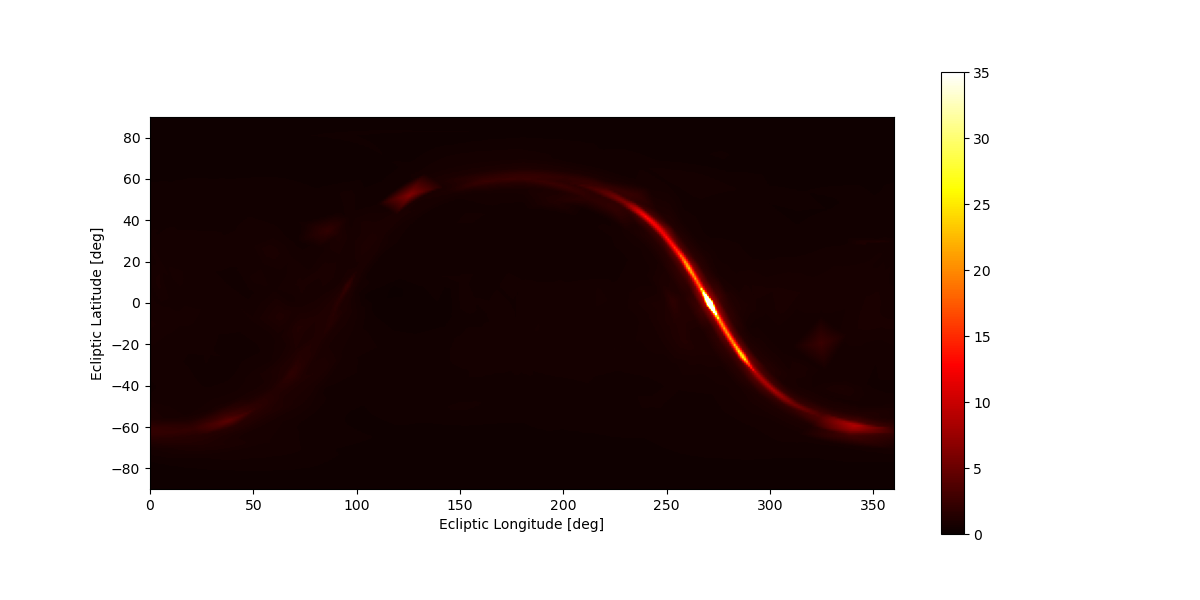
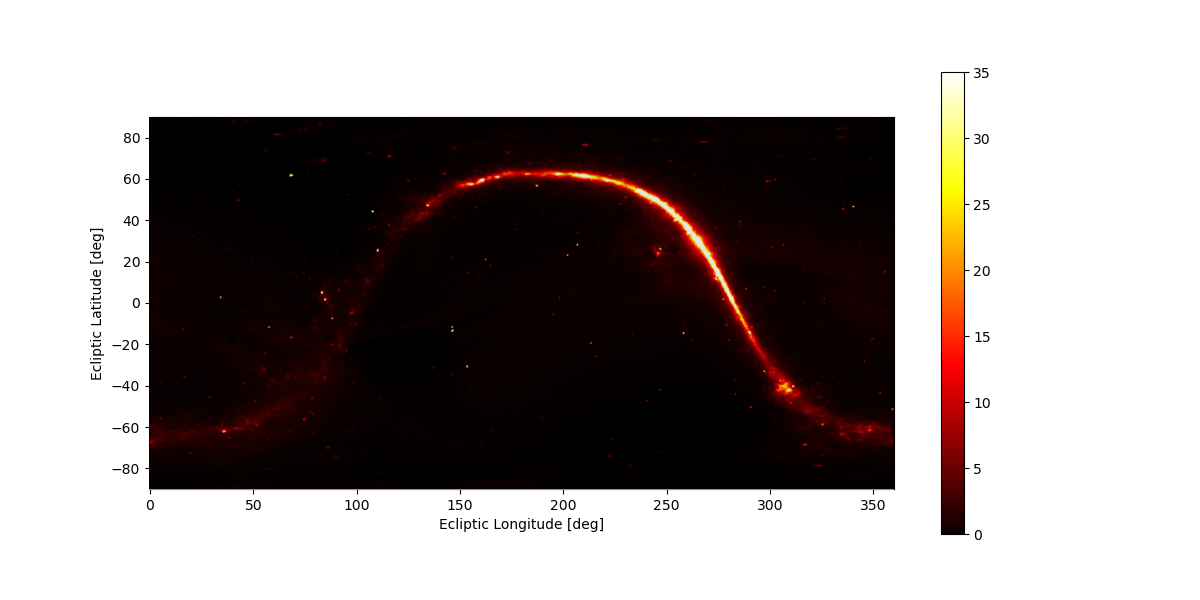
Work on ch4

diff --git a/4-experimental-methodology.tex b/4-experimental-methodology.tex
@@ -1,6 +1,9 @@
 \chapter{Experimental Methodology}
+After review of the background of near-Earth asteroid surveys and the existing body of literature for modelling surveys, this chapter will discuss the developed simulation in more detail. Firstly, in \autoref{sec::methdologysimulation}, the architecture of the simulation is discussed on a top-level. Then, in \autoref{sec:methdologyimplementation}, the implementation of the components of the simulation based on the literature in \autoref{ch:surveymodelling} is explained. Then, discourse will be given to the methods of optimization utlized in the research in \autoref{sec:methodologyoptimization}. Lastly, in \autoref{sec:methodologyprocess}, the process of using the simulation and optimization methods to obtain the results and conclusions presented in the next chapter is explained as well as the reasoning to support the optimization results. For reference, the interested reader can find the complete code as-is \href{https://github.com/ArjanVermeulen97/thesis/tree/main/code}{on Github.}
 
 \section{Simulation Overview}
+\label{sec:methodologysimulation}
+First, before discussing the specifics of implementation, a general overview of the simulation is given. The objective of the simulation is to accurately predict the performance of a NEA survey by a given system of spacecraft, on a given population. Any optimization or validation is not considered a part of the simulation, but rather a system utilizing it. This will be further explained in \autoref{sec:methdologyprocess}.
 
 \begin{figure}[htbp]
  \centering
@@ -14,7 +17,83 @@ The architecture of the simulation is shown in \autoref{fig:simulation_overview}
 The simulation consists of a nested loop. Firstly, at the start of each timestep (the time between the timesteps is determined by the survey cadence), the positions of all asteroids and spacecraft are determined by propagation of their orbital elements. Then, in the inside loop, each spacecraft is checked against each asteroid to see if it can detect said asteroid. This is done through calculation of the signal-to-noise ratio (SNR). Lastly, as it is known which asteroids got succesfully detected by which spacecraft, it can be determined if asteroids have been identified. Then, at the end of the simulation, the result is a list of the asteroid population in addition to whether they have been detected, and if so, when. Of course, this data can be further processed.
 
 \section{Implementation}
+\label{sec:methodologyimplementation}
+In this section, the implementation of the simulation algortihm is discussed. The simulation was written fully in Python 3.8, for reasons of easy testing and iteration, availability of packages for data handling and analysis, and familiarity of the author. The simulations were ran on several computers equipped with consumer-grade 6-core CPU's. \\
+
+With regards to specific packages, data handling and computation was performed using \href{https://pandas.pydata.org}{Pandas} and \href{https://numpy.org}{NumPy}. Parallelization was performed using \href{https://dask.org}{Dask}. Critical paths of these packages are written in C/C++/Cython, vastly improving the performance of the simulation. Optimization was implemented through \href{https://pypi.org/project/scikit-optimize}{Scikit-optimize} and \href{https://scikit-learn.org/stable/index.html}{Scikit-learn}. Where necessary for the purpose of analysis, data visualisation was performed using \href{https://seaborn.pydata.org}{Seaborn}. Several other packages were used, but their exact functionality and specification is not relevant for the implementation and operation of the simulation.
+
+\subsection{Population of Asteroids, Spacecraft, and Orbital Mechanics}
+The population of asteroids was implemented based on the work of \cite{GranvikPopulation}. The authors \href{http://www.iki.fi/mgranvik/data/Granvik+\_2018\_Icarus}{provide an already generated population model} of 802,000 NEA's of absolute magnitude $17 < H < 25$. This saves having to implement and validate their modelling separately. For the simulation, a random sample of asteroids is drawn for each simulation run. It was found that a number of 1000 asteroids provided adequate accuracy while reducing computational load. For validation runs, 2500 asteroids were sampled instead to ensure a higher level of accuracy. The model includes for each NEA a unique identifier, a set of six keplerian orbital elements, the absolute magnitude, and the albedo. The data is implemented as a Pandas dataframe. Similarly, the spacecraft are also implemented as a Pandas dataframe, although their orbital elements and payload are given as input arguments to the simulation. \\
+
+Orbits of asteroids and spacecraft were modelled using Keplerian orbits. As no complex mission gemetries or three-body interactions such as impacts are being studied, it was assumed that this would provide an accurate representation. The transcendental Kepler equation was solved numerically using the iterative method proposed by \cite{KeplerEquation}. Resulting orbits and transformations were verified manually. It is noted that calculation of the position of asteroids and spacecraft, especially solving of the Kepler equation, presents one of the largest contributors to the simulation's runtime. For future work, an alternative implementation is recommended.
+
+\subsection{Background Signal}
+Implementation of the background signal as described in \autoref{sec:modelling_background} was carried out as follows: Data for visual light is directly provided in the work of \cite{LightOfTheNightSky} in tabulated format for a longitude range of $[0^\circ, 360^\circ]$, in intervals of $10^\circ$. Latitude coordinates are provided in the interval $[-90^\circ, 90^\circ]$, in intervals of $10^\circ$. Additionally, latitude values of $-15^\circ, -5^\circ, -2^\circ, 2^\circ, 5^\circ, 15^\circ$ are provided for additional detail around the brightest areas (such as the galactic core or the Sun). Background signal originating from the Sun uses eclitic coordinates, signal from the background stars use galactic coordinates. After manual verification, the tables were saved. \\
+
+The thermal infrared signal as described in \cite{IRDust} was implemented in two steps. Firstly, the thermal infrared background signal from outside the solar system was loaded, and the model for interplanetary dust and sunlight for the Sun-dependent portion of the background signal was implemented. For the latter, the required line-of-sight integration was performed numerically using a Riemann sum with a step size of $0.1~\mathrm{AU}$, up to a distance of $5.2~\mathrm{AU}$ from the Sun. Results were verified manually by inspection, and comparison of locations of well-known objects in the Milky Way to their locations in the background star signal. The latter step was taken to also ensure that the transformation from ecliptic to galactic coordinates was performed correctly. After verification, the resulting data was tabulated for the same longitude and latitude combinations as the visual light background signal. This was done to ensure universal operation of the code, reducing errors, and to avoid the computational load associated with processing the highly detailed \textit{COBE} data and performing the abovementioned numerical integration. \\
+
+After tabulation, the background signal data can be held in memory during operation. Where necessary, it can be corrected to account for the spacecraft's distance from the Sun using \autoref{eq:sunscale}. When necessary, the value of the signal is determined from interpolation by means of Scikit's linear N-dimensional interpolator. \autoref{fig:combinedvisbackground} and \autoref{fig:combinedtirbackground} show the resulting background signal in the visual light and thermal infrared, respectively. It can be seen that some loss of detail in the thermal infrared is incurred due to the tabulation, however the effect is minor.
+
+\begin{figure}[htbp]
+ \centering
+ \includegraphics[width=1.0\textwidth]{img/background_vis_combined.png}
+ \caption{Background signal in the visual spectrum, in ecliptic coordinates, as seen from a spacecraft located at (-1, 0, 0) AU. Units are $S10_\odot$ or solar-type stars of 10th magnitude per square degree. $1~S10_\odot = 9.00~\mathrm{W}~\mathrm{m}^{-2}~\mathrm{Sr}^{-1}$. The scale is clipped at $1000 ~S10_\odot$ for clarity.}
+ \label{fig:combinedvisbackground}
+\end{figure}
+
+\begin{figure}[htbp]
+ \centering
+ \includegraphics[width=1.0\textwidth]{img/background_tir_combined.png}
+ \caption{Background signal in thermal infrared, in ecliptic coordinates, as seen from a spacecraft located at (-1, 0, 0) AU. Units are Megajansky per steradian, $1 ~\mathrm{MJy}~{sr}^{-1} = 10^{-21} ~\mathrm{W}~\mathrm{m}^{-2}~\mathrm{Hz}^{-1}~\mathrm{Sr}^{-1}$, and the scale is clipped at $35 ~\mathrm{MJy}~{sr}^{-1}$ for clarity.}
+ \label{fig:combinedtirbackground}
+\end{figure}
+
+\subsection{Target Signal}
+Implementation of target signal is a straightforward process. For the visual spectrum, the formulae listed in \autoref{sec:modelling_target} could be directly copied. The thermal infrared signal involves a triple integration, and is slightly more complex. As this process has to be performed $n_{asteroids} * n_{spacecraft} * T_{simulation} / \Delta t$ times per simulation, performance has to be taken into account when implementing the integrations. \\
+
+Firstly, the integration of Planck's law over the bandpass. No closed-form solution exists for the definite integral of Planck's law. As Planck's law is relatively smooth, the decision was made to approximate the integral by the average of the start and end of the bandpass. In practice this means:
+\begin{equation}
+ \int _{6 \mu\mathrm{m}}^{10 \mu\mathrm{m}} B(\lambda, T) d\lambda \approx \frac{1}{2}\left[B(6 \mu\mathrm{m}, T) + B(10 \mu\mathrm{m}, T)\right] \Delta \lambda
+\end{equation}
+This essentially approximates Planck's law as a linear function in the domain. It is assumed that this is accurate for the range and temperatures considered. This simplification has to be made, as this integration has to be carried out for every part of the numerical integration over the visible hemisphere of the asteroid, and is thus performed even more often per simulation (in fact, it is the most-called function in the simulation). The integration over the visual hemisphere of the asteroid is performed by first assuming the asteroid to be a sphere. From geometry this integral is well known:
+\begin{equation}
+ F(x) = R^2\int_{-\pi/2}^{\pi/2}\int_{-\pi/2}^{\pi/2} f(x) \cos \theta \cos \phi d \theta d \phi
+\end{equation}
+This integration was implemented through a Riemann sum as well, using the midpoint rule and an interval of $\pi/4$ for both directions, resulting in a total of 16 evaluations. It was found that the error with respect to a very precise integration was less than 1\%. Examples of the implementation can be seen in FIGUREEEE
+
+
+\subsection{Search Strategy and Cadence}
+Implementation of the search strategy and cadence proved to be the most problematic aspect in the implementation process. As mentioned in \autoref{sec:modelling_cadence}, very little literature exists on the topic, and no methods have been developed to obtain an optimal search strategy utilizing multiple spacecraft. Several options were considered to model the strategy and resulting cadence. Firstly, a method omitting implementation, instead performing a correction ex post, such as utlized by \cite{ThesisOlga}. This method was expected to underrepresent the effect of a distinct survey cadence, and introduces a look-ahead bias which would both be very problematic for the acccuracy of the results of this simulation. Secondly, explicitly modelling a north-to-south, west-to-east gridsearch-like strategy such as described by \cite{NEOCam}. Although this model would arguably be the most accurate, it is very impactful with respect to the computational load, for three reasons:
+\begin{itemize}
+ \item Firstly, the positions of the asteroids and spacecraft have to be calculated for each imaging step. This results in calculating the positions $41,253 / (7.13*1.7) \approx 3400$ times for thermal infrared, or 734 times for the visual spectrum, for each complete scan of the sky.
+ \item Secondly, to check whether or not an asteroid is inside the field-of-view of the telescope, trigonometric calculations are necessary, which are computationally inefficient.
+ \item Lastly, the conditional logic required to select only asteroids inside the field-of-view prevents parallelization and vectorization of critical parts of the computation.
+\end{itemize}
+In addition, as mentioned previously, an optimized multi-spacecraft search strategy would not utilize such a methodology in reality either. Therefore, the claim to increased accuracy is not useful, and not neccessarily representative of how the real system would function. The last option considered, which was the one ultimately implemented, is discretization of the entire cadence into a single imaging step, essentially neglecting the search strategy altogether. In practice, this means that instead of modelling out the time per image, the entire timestep of the simulation becomes equal to the cadence, and all asteroids are imaged at the same time once in that interval. For example, for a thermal infrared system with an integration time of $150~\mathrm{s}$, and a survey cadence of $21$ days, this would mean that instead of taking one $7.13^\circ x1.7^\circ$ image every $150~\mathrm{s}$ of a select portion of the sky (one image at t=0, second image at t=150s, third image at t=300s etc.), one ``image'' is taken of the full sky every 21 days (one image at t=0, one image at t=21 days, one image at t=42 days, etc.). This might seem to induce a very large discretization error. However, the magnitude of this error is limited:
+\begin{itemize}
+ \item An asteroid might move out of the detectable range within the 21 day interval. In this case the assumption causes the asteroid to not be detected. However, conversely, an asteroid might also move into the detectable range in this time period. Assuming both phenomena to be approximately equally common, the error in predicted performance should be small.
+ \item An asteroid might move in the direction of the imaging, causing it to be detected twice in two different fields-of-view, decreasing the time needed to identify the asteroid by providing a second observation within the 21 day window. Again, the converse might also happen with an asteroid being ``missed'' in this way. Although it might seem this error is therefore also negligible, it is actually not, as most bodies in the Solar system (including NEA's) orbit the Sun counter-clockwise, and therefore a counter-clockwise survey will have slightly more occurences of double detections than missed detections. Still, considering the relative velocity between the NEA and the spacecraft means that this will also be a rare process.
+ \item Lastly, a quantization error is present due to the maximum window between observations (see \autoref{sec:modelling_identification}). Given e.g. a 90-day maximum period between observations, a discretized survey with a 21-day cadence virtually only has a window of 84 days, as the next observation occurs at t=105 days, and is thus outside the 90-day window. It is expected that this will lead to an underestimation of the survey performance, although the influence is also minor, as a repeat observation at 85 days < t < 90 days, when it was not possible to obtain two follow-up observations prior to this is rare, as the period between close approaches of the NEA and the spacecraft will be in the order of hundreds to thousands of days.
+\end{itemize}
+Although the above examples are given for a 21-day thermal infrared survey, it is also of note that the error will be significantly smaller in a visual light system due to the faster cadence. In addition, the error is expected to be roughly equal in magnitude for all simulations, and therefore will have little influence on the optimization process. Considering also the fact that this assumption will provide an estimated 5,000 - 10,000 times faster simulation, this implementation was selected as the best option. The actual effect of the assumption will be validated in REFFF
+
+
+\subsection{Signal-to-noise, Detection and Identification}
+Implementation of the SNR from the target signal, background signal, and hardware properties could be executed directly using the formulae presented in \autoref{sec:modelling_hardware_SNR}. However, the probabilistic detection model utilizes an integrated Gaussian distribution. As this has no closed-form solution, an approximation based on the hyperbolic tangent function (\cite{GaussianTanh}) was implemented. The function was only applied in the $1 > SNR > 5$ range. An SNR < 1 leads to an automatic failure in detection, and an SNR > 5 to an automatic success. \\
+
+For identification, the number and period of the detections are tracked in the asteroid parameters dataframe. For reasons previously outlined, a maximum observation interval of 90 days was assumed. Two criteria can lead to a succesful identification:
+\begin{itemize}
+ \item Detection on three different timesteps within 90 days by at least one spacecraft. Note that it is not neccessary that all three detections are made by the \textit{same} spacecraft.
+ \item Detection on two different timesteps within 90 days, by at least two spacecraft. Again, it is not necessary that these are the same spacecraft. In addition, it is assumed that the triangulation process is always possible: as the sensors have a pixel scale in the order of 1 arcsecond, colinearity is assumed to be a negligible phenomenon.
+\end{itemize}
+
+This means that all communication and image processing requirements are left out of the scope of the simulation. Such requirements, e.g. that the datarate between spacecraft is high enough that they can transmit observations to eachother, and that images can be processed on-board, would be design requirements for an eventual mission, such as also already outlined by \cite{2017NEOSDT}.
 
 \section{Optimization Methods}
+\label{sec:methdologyoptimization}
+In order to obtain the optimal solutions to the problem, the simulation will be used in conjunction with a mathmatical optimizer. A plethora of optimizers exist to date, however a selection of promising optimization methods could be made fairly easily. Firstly, a large number of optimizers, the so-called gradient methods, are reliant on the availability of an analytical solution for the derivative of the function. No way of analytically evaluating the derivative of the simulation was found, and it is expected it does not exist due to the complexity. A second class of optimizers which is subsequently often considered are the heuristic-based methods, such as particle swarm optimization, simulated annealing, and genetic/evolutionary methods. However, these methods are firstly not guaranteed to find the global optimum, and secondly, require a very large number of function evaluations. Especially the latter is a problem, as the function is a full simulation, which is far from computationally trivial as shown in the previous sections. \\
+
+Therefore, it was decided to implement a solution from the class of \textit{surrogate optimization} methods. In these methods, A more simple function is fit to the to-be-optimized function, and it is optimized instead as this allows using a more effective optimizer that can not be used on the function of interest, thereby limiting the number of required evaluations of the main function. The resulting queries to the main function are then used to update the surrogate function. As the surrogate function will eventually very closely resemble the main function, the method is guaranteed to approach the global minimum, provided the function is sufficiently smooth, can be evaluated in the entire domain, and does not have noise (\cite{Surrogate}).
 
 \section{Experimental Process}
+\label{sec:methodologyprocess}

diff --git a/3-survey-modelling.tex b/3-survey-modelling.tex
@@ -1,4 +1,5 @@
 \chapter{Survey Modelling}
+\label{ch:surveymodelling}
 
 Space missions are very expensive to design, build, launch and operate. Therefore, it is important that all properties and behaviors of such a mission are well known in advance. Then, an accurate assessment can be made of the merits of the mission and what results are to be expected. In addition, it allows for selecting the design which will produce the best results. In order to study these properties and determine the optimum, computer simulations are an excellent tool. They allow for cheaply and rapidly testing out a lot of possible mission parameters, and recording the relevant data for easy analysis. \\
 
@@ -85,6 +86,7 @@ Combining all these components and performing the integration leads to the full 
 On the other hand, the background signal in the visual spectrum is more readily available. As it can be quickly and repeatedly measured from the surface of the Earth, early measurements of this signal exist. The components of the visual light background signal are tabulated by \cite{LightOfTheNightSky}, using data obtained from measurements. The resulting contribution from the Sun and Sunlight reflected off of interplanetary dust can be seen in \autoref{fig:solarvisbackground}. Next to the obvious contribution of the Sun and zodiacal light, the phenomenon of gegenschein can be observed in the middle of the plot. Although this is the points where target asteroids are at their brightest, it is also a point of increased background flux. The values as tabulated by \cite{LightOfTheNightSky} are only valid at a distance from the Sun of $1~\mathrm{AU}$. \cite{SkyBrightness} offer a correction factor for changing heliocentric position of the observer as follows:
 \begin{equation}
  F(R) = F_{1~\mathrm{AU}}R^{-2.3}
+ \label{eq:sunscale}
 \end{equation}
 This correction factor accounts for both the approximate decrease in interplanetary dust density when moving away from the Sun, as well as the decrease in solar flux. With these components, the Sun-dependent portion of the background signal is fully available for modelling. \\
 
